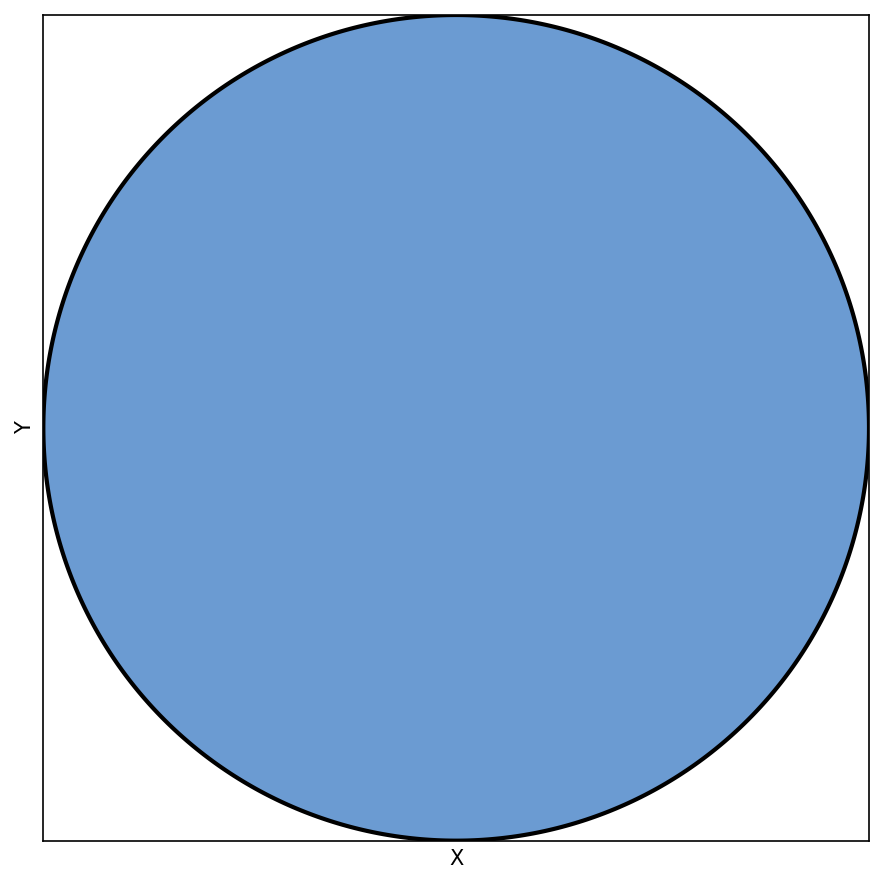
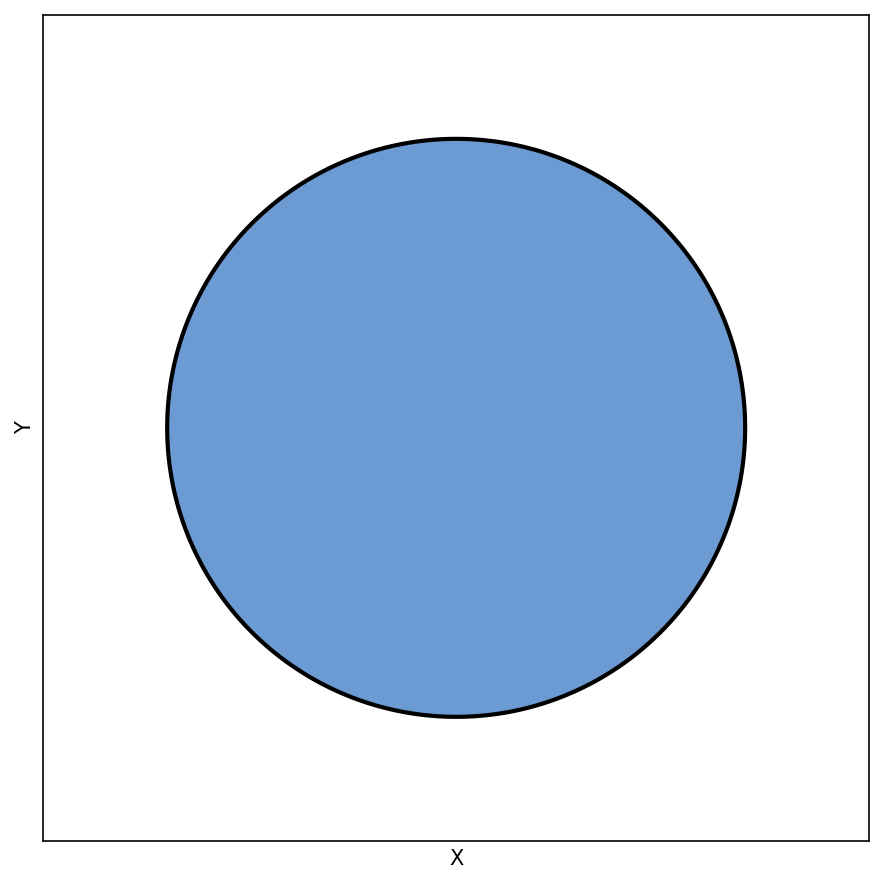
updated showcase files

diff --git a/benchmarks/generate_sdf_showcase.py b/benchmarks/generate_sdf_showcase.py
@@ -184,6 +184,7 @@ def create_2d_screenshot(
     resolution: int = 200,
     title: str = "",
     bounds: Optional[Tuple[float, float, float, float]] = None,
+    query_offset: Optional[Tuple[float, float]] = None,
     interior_color: str = "#6B9BD2",
     exterior_color: str = "#FFFFFF",
 ) -> bool:
@@ -202,6 +203,8 @@ def create_2d_screenshot(
         Title for the visualization
     bounds : tuple, optional
         Plot bounds (xmin, xmax, ymin, ymax). If None, uses SDF domain bounds.
+    query_offset : tuple, optional
+        Offset applied to sampling coordinates before SDF evaluation.
     interior_color : str, optional
         Hex color for interior region (default: nice blue)
     exterior_color : str, optional
@@ -230,8 +233,12 @@ def create_2d_screenshot(
 
         # Sample SDF values
         points = np.stack([X.ravel(), Y.ravel()], axis=1)
+        if query_offset is not None:
+            points_for_eval = points - np.asarray(query_offset, dtype=np.float32)
+        else:
+            points_for_eval = points
         sdf_values = (
-            sdf(torch.tensor(points, dtype=torch.float32))
+            sdf(torch.tensor(points_for_eval, dtype=torch.float32))
             .detach()
             .numpy()
             .reshape(X.shape)
@@ -261,6 +268,8 @@ def create_2d_screenshot(
 
         # Set plot properties
         axes.set_aspect("equal")
+        axes.set_xlim(bounds[0], bounds[1])
+        axes.set_ylim(bounds[2], bounds[3])
         axes.set_xlabel("X")
         axes.set_ylabel("Y")
         if title:
@@ -406,50 +415,75 @@ def create_sdf_primitives():
     # ======== 2D Primitives ========
     output_dir = OUTPUT_DIR / "primitives" / "2D"
     output_dir.mkdir(parents=True, exist_ok=True)
+    unit_bounds = (0.0, 1.0, 0.0, 1.0)
 
     print("\\n=== 2D Primitives ===")
 
     # Circle
     print("Circle")
-    circle = CircleSDF(center=[0, 0], radius=1.0)
-    create_2d_screenshot(circle, output_dir / "circle.png", resolution=200)
+    circle = CircleSDF(center=[0.5, 0.5], radius=0.35)
+    create_2d_screenshot(
+        circle, output_dir / "circle.png", resolution=200, bounds=unit_bounds
+    )
 
     # Rectangle
     print("Rectangle")
-    rectangle = RectangleSDF(center=[0, 0], extents=[2.0, 1.5])
-    create_2d_screenshot(rectangle, output_dir / "rectangle.png", resolution=200)
+    rectangle = RectangleSDF(center=[0.5, 0.5], extents=[0.7, 0.55])
+    create_2d_screenshot(
+        rectangle, output_dir / "rectangle.png", resolution=200, bounds=unit_bounds
+    )
 
     # Rounded Rectangle
     print("Rounded Rectangle")
-    rounded_rect = RoundedRectangleSDF(center=[0, 0], extents=[2.0, 1.5], radius=0.2)
+    rounded_rect = RoundedRectangleSDF(
+        center=[0.5, 0.5], extents=[0.72, 0.56], radius=0.08
+    )
     create_2d_screenshot(
-        rounded_rect, output_dir / "rounded_rectangle.png", resolution=200
+        rounded_rect,
+        output_dir / "rounded_rectangle.png",
+        resolution=200,
+        bounds=unit_bounds,
     )
 
     # Equilateral Triangle
     print("Equilateral Triangle")
-    triangle = EquilateralTriangleSDF(size=1.5)
+    triangle = EquilateralTriangleSDF(size=0.32)
     create_2d_screenshot(
-        triangle, output_dir / "equilateral_triangle.png", resolution=200
+        triangle,
+        output_dir / "equilateral_triangle.png",
+        resolution=200,
+        bounds=unit_bounds,
+        query_offset=(0.5, 0.5),
     )
 
     # Hexagon
     print("Hexagon")
-    hexagon = HexagonSDF(size=1.5)
-    create_2d_screenshot(hexagon, output_dir / "hexagon.png", resolution=200)
+    hexagon = HexagonSDF(size=0.28)
+    create_2d_screenshot(
+        hexagon,
+        output_dir / "hexagon.png",
+        resolution=200,
+        bounds=unit_bounds,
+        query_offset=(0.5, 0.5),
+    )
 
     # Polygon (custom shape)
     print("Polygon (Pentagon)")
     pentagon = PolygonSDF(
         [
-            [0, 1],  # Top
-            [0.95, 0.31],  # Top right
-            [0.59, -0.81],  # Bottom right
-            [-0.59, -0.81],  # Bottom left
-            [-0.95, 0.31],  # Top left
+            [0.5, 0.86],  # Top
+            [0.82, 0.62],  # Top right
+            [0.7, 0.24],  # Bottom right
+            [0.3, 0.24],  # Bottom left
+            [0.18, 0.62],  # Top left
         ]
     )
-    create_2d_screenshot(pentagon, output_dir / "polygon_pentagon.png", resolution=200)
+    create_2d_screenshot(
+        pentagon,
+        output_dir / "polygon_pentagon.png",
+        resolution=200,
+        bounds=unit_bounds,
+    )
 
     # ======== Boolean Operations ========
     output_dir = OUTPUT_DIR / "operations" / "boolean"
